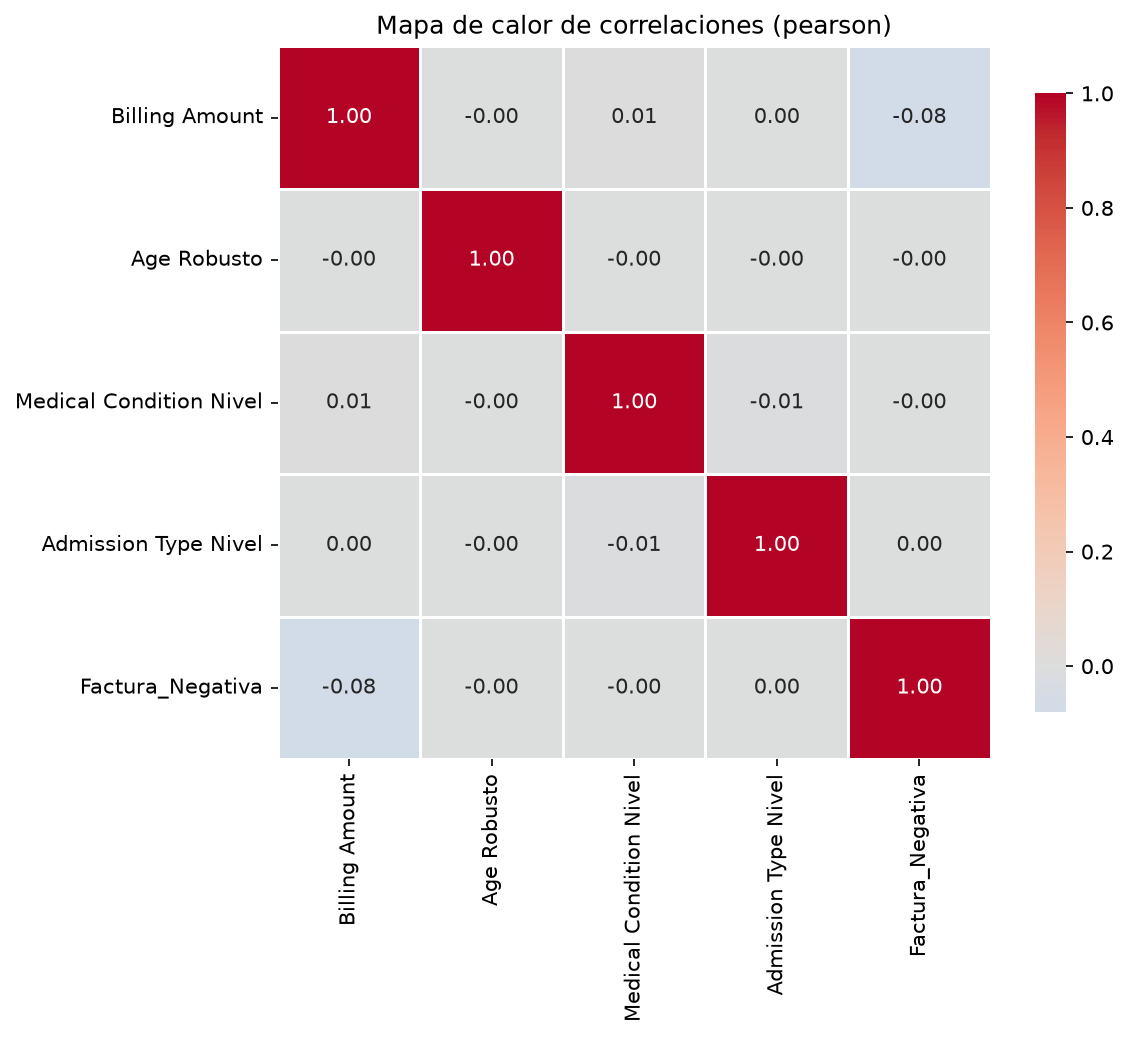
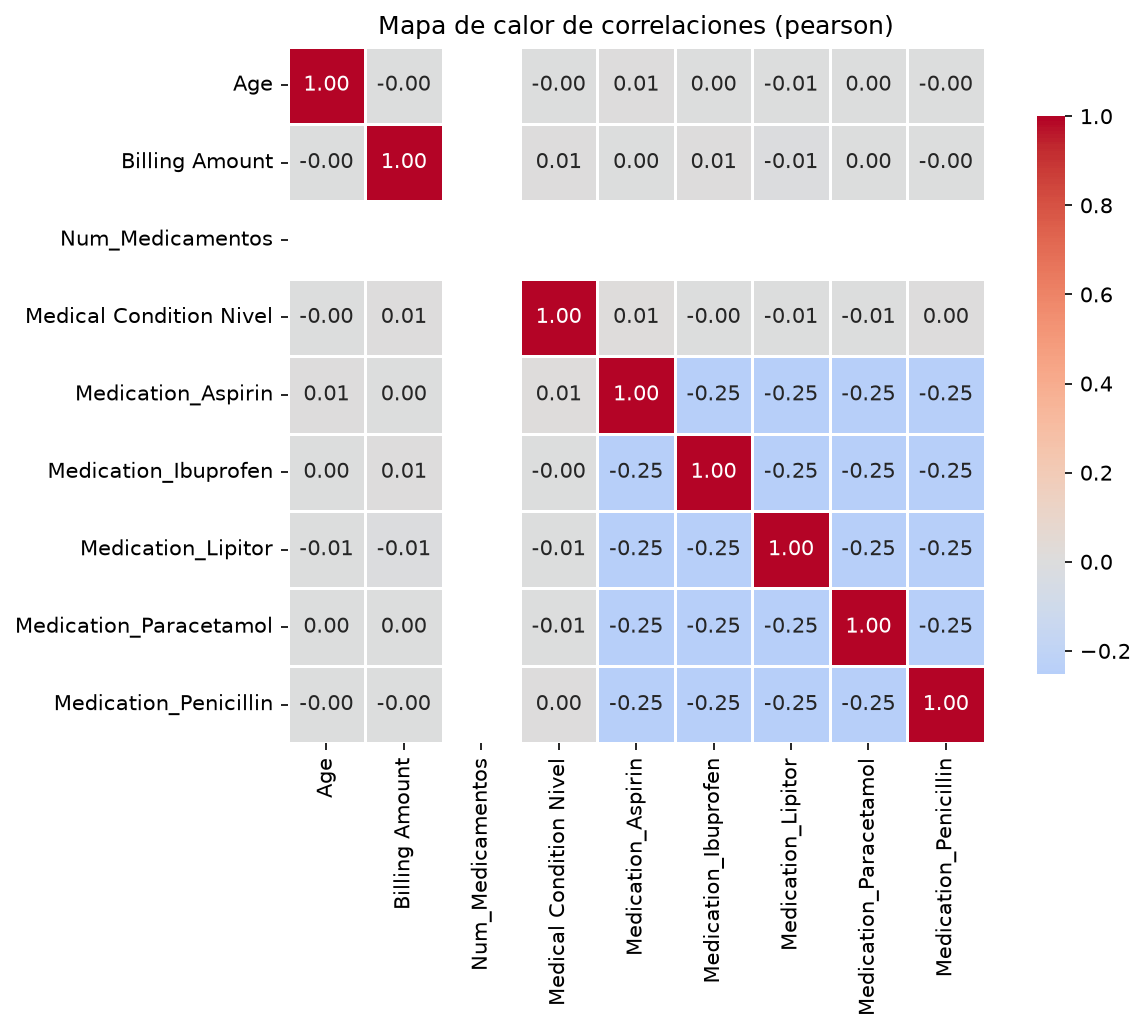
feat: actualizar heatmap con datos cruzados (Admission Type, Factura_Negativa; sin Num_Medicamentos)

diff --git a/src/analisis_correlaciones.py b/src/analisis_correlaciones.py
@@ -86,7 +86,8 @@ if __name__ == "__main__":
     base = Path(__file__).resolve().parent.parent
     df = pd.read_csv(base / "data" / "healthcare_dataset_enriquecido.csv")
     cols = [
-        "Age", "Billing Amount", "Num_Medicamentos", "Medical Condition Nivel",
+        "Age", "Billing Amount", "Medical Condition Nivel", "Admission Type Nivel",
+        "Factura_Negativa",
         "Medication_Aspirin", "Medication_Ibuprofen", "Medication_Lipitor",
         "Medication_Paracetamol", "Medication_Penicillin",
     ]
